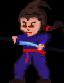
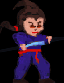
[IMP] codemaster, suiteoftests: Improve actor images and spell casting. Also, improve the suite of tests.

diff --git a/suiteoftests/tests/test_npcs_cast_spells_on_player.py b/suiteoftests/tests/test_npcs_cast_spells_on_player.py
@@ -2,7 +2,12 @@
 __author__ = 'Joan A. Pinol  (japinol)'
 
 from codemaster.config.constants import DIRECTION_LEFT
-from codemaster.models.actors.npcs import DemonMale
+from codemaster.models.actors.npcs import (
+    DemonMale,
+    PumpkinHeadA,
+    SamuraiMale,
+    TethlorienRed,
+    )
 from suiteoftests.test_suite.game_test import game_test
 
 
@@ -10,7 +15,7 @@ class TestNPCsCastSpellsOnPlayer:
     """NPCs should be able to kill a player life when they cast combat spells on them."""
 
     @game_test(levels=[3], timeout=3)
-    def test_player_hit_with_enough_combat_spells_must_die(self, game):
+    def test_player_hit_with_fire_breath_spell_must_die(self, game):
         player = game.player
         player.rect.x, player.rect.y = 260, 620
         player.health = 22
@@ -19,6 +24,96 @@ class TestNPCsCastSpellsOnPlayer:
         npc = DemonMale(600, 664, game, change_x=0)
         npc.direction = DIRECTION_LEFT
         npc.can_shot = False
+        npc.probability_to_cast_vortex_b = 0
+        npc.probability_to_cast_fire_breath_a = 100
+        npc.probability_to_cast_fire_breath_b = 0
+        game.level.add_actors([npc])
+
+        game.game_loop()
+
+        game.assert_test_passed(
+            condition=player.lives < 1,
+            failed_msg="NPC did not kill the player.")
+
+    @game_test(levels=[3], timeout=3)
+    def test_player_hit_with_neutrinos_bolt_must_die(self, game):
+        player = game.player
+        player.rect.x, player.rect.y = 260, 620
+        player.health = 22
+        player.lives = 1
+
+        npc = TethlorienRed(600, 660, game, change_x=0)
+        npc.direction = DIRECTION_LEFT
+        npc.can_shot = False
+        npc.probability_to_cast_neutrinos_bolt_a = 100
+        npc.probability_to_cast_neutrinos_bolt_b = 0
+        game.level.add_actors([npc])
+
+        game.game_loop()
+
+        game.assert_test_passed(
+            condition=player.lives < 1,
+            failed_msg="NPC did not kill the player.")
+
+    @game_test(levels=[3], timeout=3)
+    def test_player_hit_with_samutrinos_bolt_must_die(self, game):
+        player = game.player
+        player.rect.x, player.rect.y = 260, 620
+        player.health = 22
+        player.lives = 1
+
+        npc = SamuraiMale(600, 654, game, change_x=0)
+        npc.direction = DIRECTION_LEFT
+        npc.can_shot = False
+        npc.probability_to_cast_samutrinos_bolt_a = 100
+        npc.probability_to_cast_samutrinos_bolt_b = 0
+        npc.stats.time_between_spell_casting = 820
+
+        game.level.add_actors([npc])
+
+        game.game_loop()
+
+        game.assert_test_passed(
+            condition=player.lives < 1,
+            failed_msg="NPC did not kill the player.")
+
+    @game_test(levels=[3], timeout=6)
+    def test_player_hit_with_vortex_doom_spell_must_die(self, game):
+        player = game.player
+        player.rect.x, player.rect.y = 260, 620
+        player.health = 22
+        player.lives = 1
+
+        npc = DemonMale(600, 664, game, change_x=0)
+        npc.direction = DIRECTION_LEFT
+        npc.can_shot = False
+        npc.probability_to_cast_vortex_b = 100
+        npc.probability_to_cast_fire_breath_a = 0
+        npc.probability_to_cast_fire_breath_b = 0
+
+        game.level.add_actors([npc])
+
+        game.game_loop()
+
+        game.assert_test_passed(
+            condition=player.lives < 1,
+            failed_msg="NPC did not kill the player.")
+
+    @game_test(levels=[3], timeout=3)
+    def test_player_hit_with_enough_drain_life_spells_must_die(self, game):
+        player = game.player
+        player.rect.x, player.rect.y = 260, 620
+        player.health = 22
+        player.lives = 1
+
+        npc = PumpkinHeadA(600, 660, game, change_x=0)
+        npc.direction = DIRECTION_LEFT
+        npc.can_shot = False
+        npc.probability_to_cast_vortex_b = 0
+        npc.probability_to_cast_drain_life_a = 100
+        npc.probability_to_cast_drain_life_b = 0
+        npc.stats.time_between_spell_casting = 180
+
         game.level.add_actors([npc])
 
         game.game_loop()

diff --git a/codemaster/models/actors/npcs/mages.py b/codemaster/models/actors/npcs/mages.py
@@ -39,6 +39,10 @@ class Mage(NPC):
                          border_top=border_top, border_down=border_down,
                          items_to_drop=items_to_drop)
 
+        self.probability_to_cast_vortex_b = 8
+        self.probability_to_cast_spell_a = 13
+        self.probability_to_cast_spell_b = 100
+
 
 class MageFemaleA(Mage):
     """Represents a Mage Female A."""
@@ -109,20 +113,28 @@ class MageFemaleA(Mage):
         super().update_after_inc_index_hook()
 
     def update_cast_spell_cast_actions(self):
-        probability_to_cast_vortex_b = 8
-        probability_to_cast_spell_a = 13
         dice_shot = randint(1, 100)
         if all([
             self.game.player.direction != DIRECTION_RIP,
-            dice_shot + probability_to_cast_vortex_b >= 100,
+            dice_shot + self.probability_to_cast_vortex_b > 100,
             sum(1 for x in self.game.level.magic_sprites
                 if x.target == self.player and x.type.name == ActorType.VORTEX_OF_DOOM_B.name) < 1,
         ]):
             spell_class = VortexOfDoomB
-        elif dice_shot + probability_to_cast_spell_a >= 100:
+        elif all([
+            dice_shot + self.probability_to_cast_spell_a > 100,
+            sum(1 for x in self.game.level.magic_sprites
+                if x.target == self.player and x.type.name == ActorType.DRAIN_LIFE_A.name) < 1,
+        ]):
             spell_class = DrainLifeA
-        else:
+        elif all([
+            dice_shot + self.probability_to_cast_spell_b > 100,
+            sum(1 for x in self.game.level.magic_sprites
+                if x.target == self.player and x.type.name == ActorType.DRAIN_LIFE_B.name) < 1,
+        ]):
             spell_class = DrainLifeB
+        else:
+            return
 
         delta_x = -20 if self.direction == DIRECTION_LEFT else 40
         magic_attack = spell_class(

diff --git a/codemaster/models/actors/npcs/pumpkin_heads.py b/codemaster/models/actors/npcs/pumpkin_heads.py
@@ -66,24 +66,28 @@ class PumpkinHeadA(PumpkinHead):
         self.spell_cast_y_delta_max = self.spell_cast_y_delta_max
         self.probability_to_cast_vortex_b = 4
         self.probability_to_cast_drain_life_a = 8
+        self.probability_to_cast_drain_life_b = 100
 
     def update_cast_spell_cast_actions(self):
         dice_shot = randint(1, 100)
         if all((
             self.game.player.direction != DIRECTION_RIP,
-            dice_shot + self.probability_to_cast_vortex_b >= 100,
+            dice_shot + self.probability_to_cast_vortex_b > 100,
             sum(1 for x in self.game.level.magic_sprites
                 if x.target == self.player and x.type.name == ActorType.VORTEX_OF_DOOM_B.name) < 1,
         )):
             spell_class = VortexOfDoomB
         elif all((
-            dice_shot + self.probability_to_cast_drain_life_a >= 100,
+            dice_shot + self.probability_to_cast_drain_life_a > 100,
             sum(1 for x in self.game.level.magic_sprites
-                if x.target == self.player and x.type.name == ActorType.FIRE_BREATH_A.name) < 1,
+                if x.target == self.player and x.type.name == ActorType.DRAIN_LIFE_A.name) < 1,
         )):
             spell_class = DrainLifeA
-        elif sum(1 for x in self.game.level.magic_sprites
-                 if x.target == self.player and x.type.name == ActorType.FIRE_BREATH_B.name) < 3:
+        elif all((
+            dice_shot + self.probability_to_cast_drain_life_b > 100,
+            sum(1 for x in self.game.level.magic_sprites
+                 if x.target == self.player and x.type.name == ActorType.DRAIN_LIFE_B.name) < 3
+        )):
             spell_class = DrainLifeB
         else:
             return

diff --git a/codemaster/models/actors/npcs/demons.py b/codemaster/models/actors/npcs/demons.py
@@ -41,24 +41,28 @@ class Demon(NPC):
 
         self.probability_to_cast_vortex_b = 8
         self.probability_to_cast_fire_breath_a = 13
+        self.probability_to_cast_fire_breath_b = 100
 
     def update_cast_spell_cast_actions(self):
         dice_shot = randint(1, 100)
         if all((
             self.game.player.direction != DIRECTION_RIP,
-            dice_shot + self.probability_to_cast_vortex_b >= 100,
+            dice_shot + self.probability_to_cast_vortex_b > 100,
             sum(1 for x in self.game.level.magic_sprites
                 if x.target == self.player and x.type.name == ActorType.VORTEX_OF_DOOM_B.name) < 1,
         )):
             spell_class = VortexOfDoomB
         elif all((
-            dice_shot + self.probability_to_cast_fire_breath_a >= 100,
+            dice_shot + self.probability_to_cast_fire_breath_a > 100,
             sum(1 for x in self.game.level.magic_sprites
                 if x.target == self.player and x.type.name == ActorType.FIRE_BREATH_A.name) < 1,
         )):
             spell_class = FireBreathA
-        elif sum(1 for x in self.game.level.magic_sprites
-                 if x.target == self.player and x.type.name == ActorType.FIRE_BREATH_B.name) < 3:
+        elif all((
+            dice_shot + self.probability_to_cast_fire_breath_b > 100,
+            sum(1 for x in self.game.level.magic_sprites
+                 if x.target == self.player and x.type.name == ActorType.FIRE_BREATH_B.name) < 3,
+        )):
             spell_class = FireBreathB
         else:
             return

diff --git a/codemaster/models/actors/npcs/samurais.py b/codemaster/models/actors/npcs/samurais.py
@@ -39,17 +39,21 @@ class Samurai(NPC):
         self.spell_cast_y_delta_max = self.spell_cast_y_delta_max * 1.6
 
         self.probability_to_cast_samutrinos_bolt_a = 6
+        self.probability_to_cast_samutrinos_bolt_b = 100
 
     def update_cast_spell_cast_actions(self):
         dice_shot = randint(1, 100)
         if all((
-            dice_shot + self.probability_to_cast_samutrinos_bolt_a >= 100,
+            dice_shot + self.probability_to_cast_samutrinos_bolt_a > 100,
             sum(1 for x in self.game.level.magic_sprites
-                if x.target == self.player and x.type.name == ActorType.FIRE_BREATH_A.name) < 1,
+                if x.target == self.player and x.type.name == ActorType.SAMUTRINOS_BOLT_A.name) < 1,
         )):
             spell_class = SamutrinosBoltA
-        elif sum(1 for x in self.game.level.magic_sprites
-                 if x.target == self.player and x.type.name == ActorType.FIRE_BREATH_B.name) < 3:
+        elif all((
+            dice_shot + self.probability_to_cast_samutrinos_bolt_b > 100,
+            sum(1 for x in self.game.level.magic_sprites
+                if x.target == self.player and x.type.name == ActorType.SAMUTRINOS_BOLT_B.name) < 3
+        )):
             spell_class = SamutrinosBoltB
         else:
             return

diff --git a/codemaster/models/actors/npcs/pumpkin_zombies.py b/codemaster/models/actors/npcs/pumpkin_zombies.py
@@ -59,14 +59,25 @@ class PumpkinZombieA(PumpkinZombie):
         self.stats.time_between_energy_shield_casting = 1000
         self.spell_cast_x_delta_max = self.spell_cast_x_delta_max * 1.1
         self.spell_cast_y_delta_max = self.spell_cast_y_delta_max
+        self.probability_to_cast_drain_life_a = 13
+        self.probability_to_cast_drain_life_b = 100
 
     def update_cast_spell_cast_actions(self):
-        probability_to_cast_spell_a = 13
         dice_shot = randint(1, 100)
-        if dice_shot + probability_to_cast_spell_a >= 100:
+        if all((
+            dice_shot + self.probability_to_cast_drain_life_a > 100,
+            sum(1 for x in self.game.level.magic_sprites
+                if x.target == self.player and x.type.name == ActorType.DRAIN_LIFE_A.name) < 1,
+        )):
             spell_class = DrainLifeA
-        else:
+        elif all((
+            dice_shot + self.probability_to_cast_drain_life_b > 100,
+            sum(1 for x in self.game.level.magic_sprites
+                 if x.target == self.player and x.type.name == ActorType.DRAIN_LIFE_B.name) < 3
+        )):
             spell_class = DrainLifeB
+        else:
+            return
 
         delta_x = -20 if self.direction == DIRECTION_LEFT else 40
         magic_attack = spell_class(

diff --git a/codemaster/models/actors/npcs/tethloriens.py b/codemaster/models/actors/npcs/tethloriens.py
@@ -41,17 +41,21 @@ class Tethlorien(NPC):
         self.spell_cast_y_delta_max = self.spell_cast_y_delta_max * 1.6
 
         self.probability_to_cast_neutrinos_bolt_a = 8
+        self.probability_to_cast_neutrinos_bolt_b = 100
 
     def update_cast_spell_cast_actions(self):
         dice_shot = randint(1, 100)
         if all((
-            dice_shot + self.probability_to_cast_neutrinos_bolt_a >= 100,
+            dice_shot + self.probability_to_cast_neutrinos_bolt_a > 100,
             sum(1 for x in self.game.level.magic_sprites
-                if x.target == self.player and x.type.name == ActorType.FIRE_BREATH_A.name) < 1,
+                if x.target == self.player and x.type.name == ActorType.NEUTRINOS_BOLT_A.name) < 1,
         )):
             spell_class = NeutrinosBoltA
-        elif sum(1 for x in self.game.level.magic_sprites
-                 if x.target == self.player and x.type.name == ActorType.FIRE_BREATH_B.name) < 3:
+        elif all((
+            dice_shot + self.probability_to_cast_neutrinos_bolt_b > 100,
+            sum(1 for x in self.game.level.magic_sprites
+                if x.target == self.player and x.type.name == ActorType.NEUTRINOS_BOLT_B.name) < 3
+        )):
             spell_class = NeutrinosBoltB
         else:
             return

diff --git a/codemaster/models/actors/npcs/dragons.py b/codemaster/models/actors/npcs/dragons.py
@@ -115,6 +115,7 @@ class Dragon(NPC):
 
         self.probability_to_cast_vortex_b = 8
         self.probability_to_cast_fire_breath_a = 13
+        self.probability_to_cast_fire_breath_b = 100
 
     def _load_sprites(self):
         # We want to draw the dragon's head on top of the body,
@@ -273,8 +274,11 @@ class Dragon(NPC):
                 if x.target == self.player and x.type.name == ActorType.FIRE_BREATH_A.name) < 1,
         )):
             spell_class = FireBreathA
-        elif sum(1 for x in self.game.level.magic_sprites
-                 if x.target == self.player and x.type.name == ActorType.FIRE_BREATH_B.name) < 3:
+        elif all((
+            dice_shot + self.probability_to_cast_fire_breath_b >= 100,
+            sum(1 for x in self.game.level.magic_sprites
+                 if x.target == self.player and x.type.name == ActorType.FIRE_BREATH_B.name) < 3,
+        )):
             spell_class = FireBreathB
         else:
             return

diff --git a/suiteoftests/test_suite/test_suite.py b/suiteoftests/test_suite/test_suite.py
@@ -196,7 +196,7 @@ class GameTestSuite:
 
         log.info("Load and render resources")
         Resource.load_and_render_background_images()
-        Resource.load_and_render_scorebar_images_and_txt()
+        Resource.load_sound_resources()
         # Render characters in some colors to use it as a cache
         libg_jp.chars_render_text_tuple(font_name=FONT_DEFAULT_NAME)
         libg_jp.chars_render_text_tuple(font_name=FONT_FIXED_DEFAULT_NAME)

diff --git a/README.md b/README.md
@@ -266,7 +266,7 @@
     	        > Black bats: They deal great damage.
 	    > Demons:
 	        > Beware, they have weapons, can cast spells 
-	          and have some resistance to magic.
+	          and have great resistance to magic.
 	    > Dragons:
 	        > Beware, they have magic weapons 
 	          and some resistance to magic.
